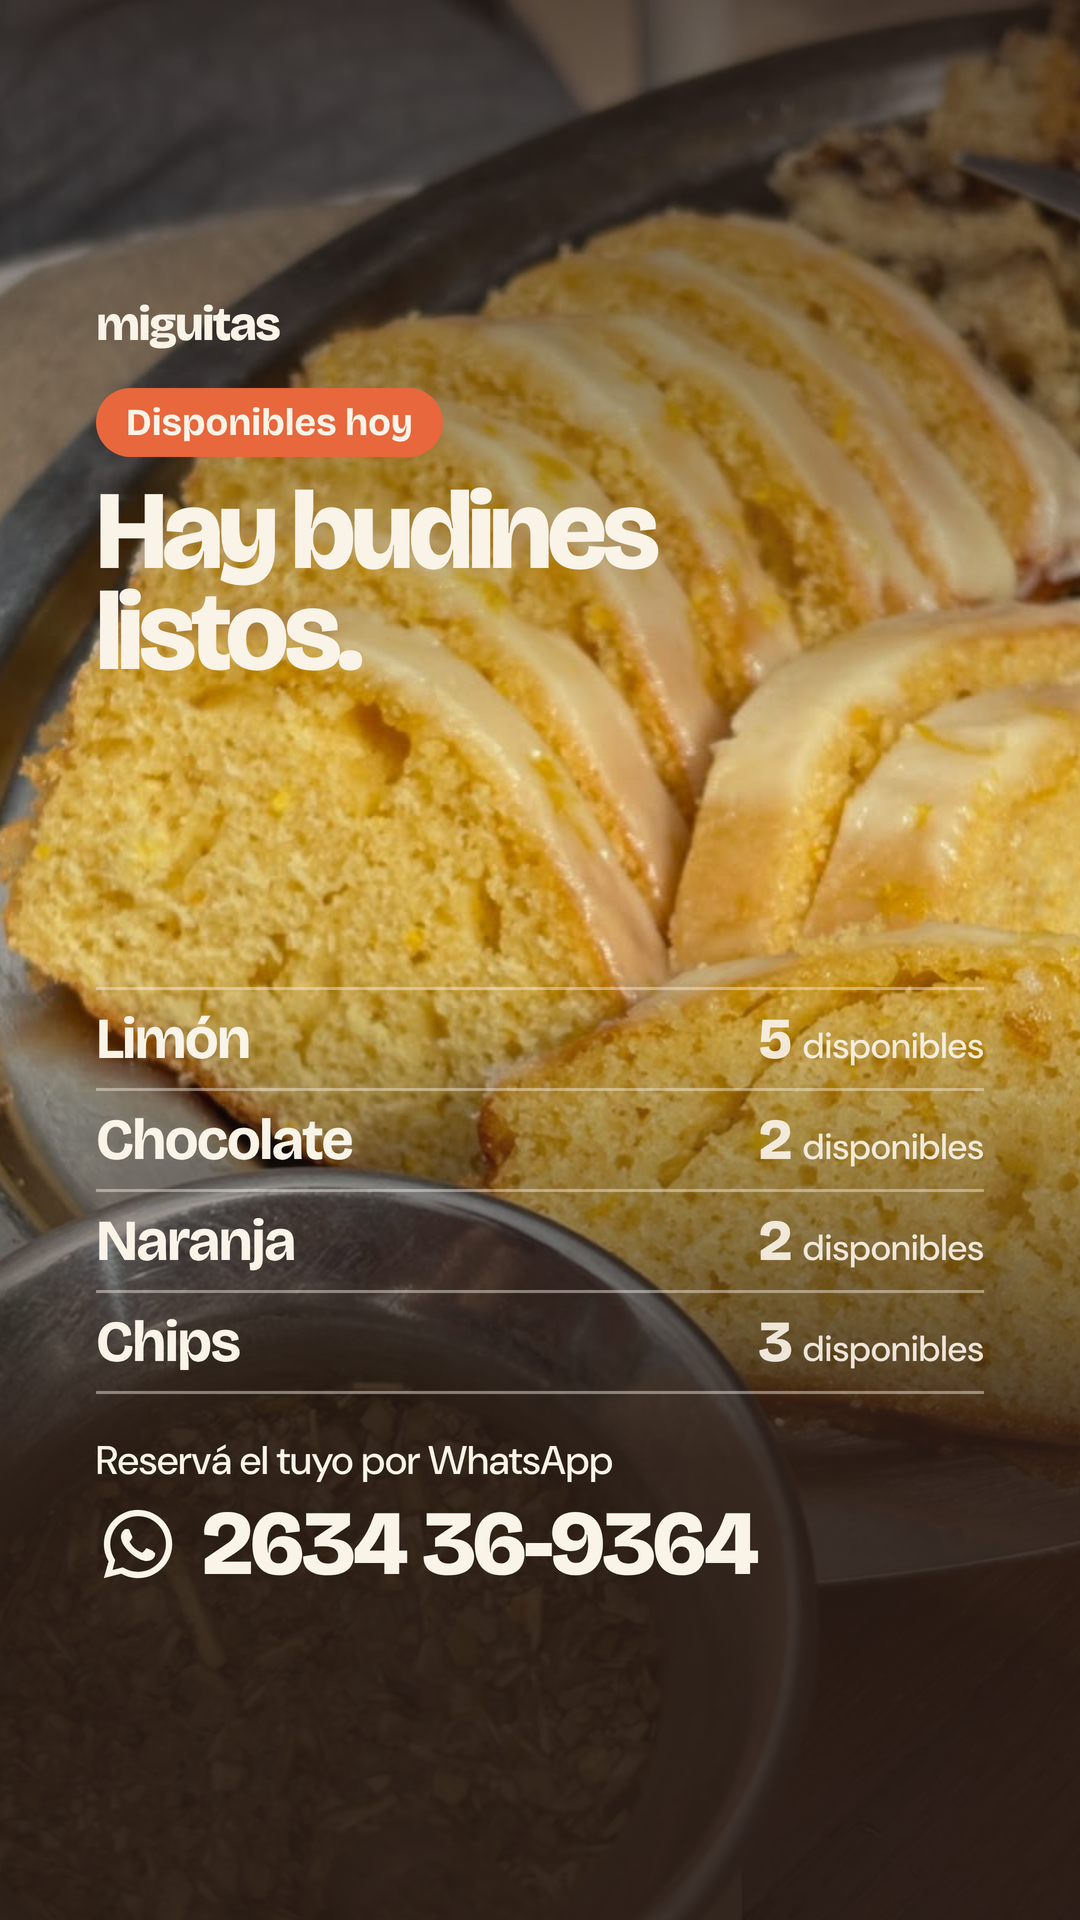
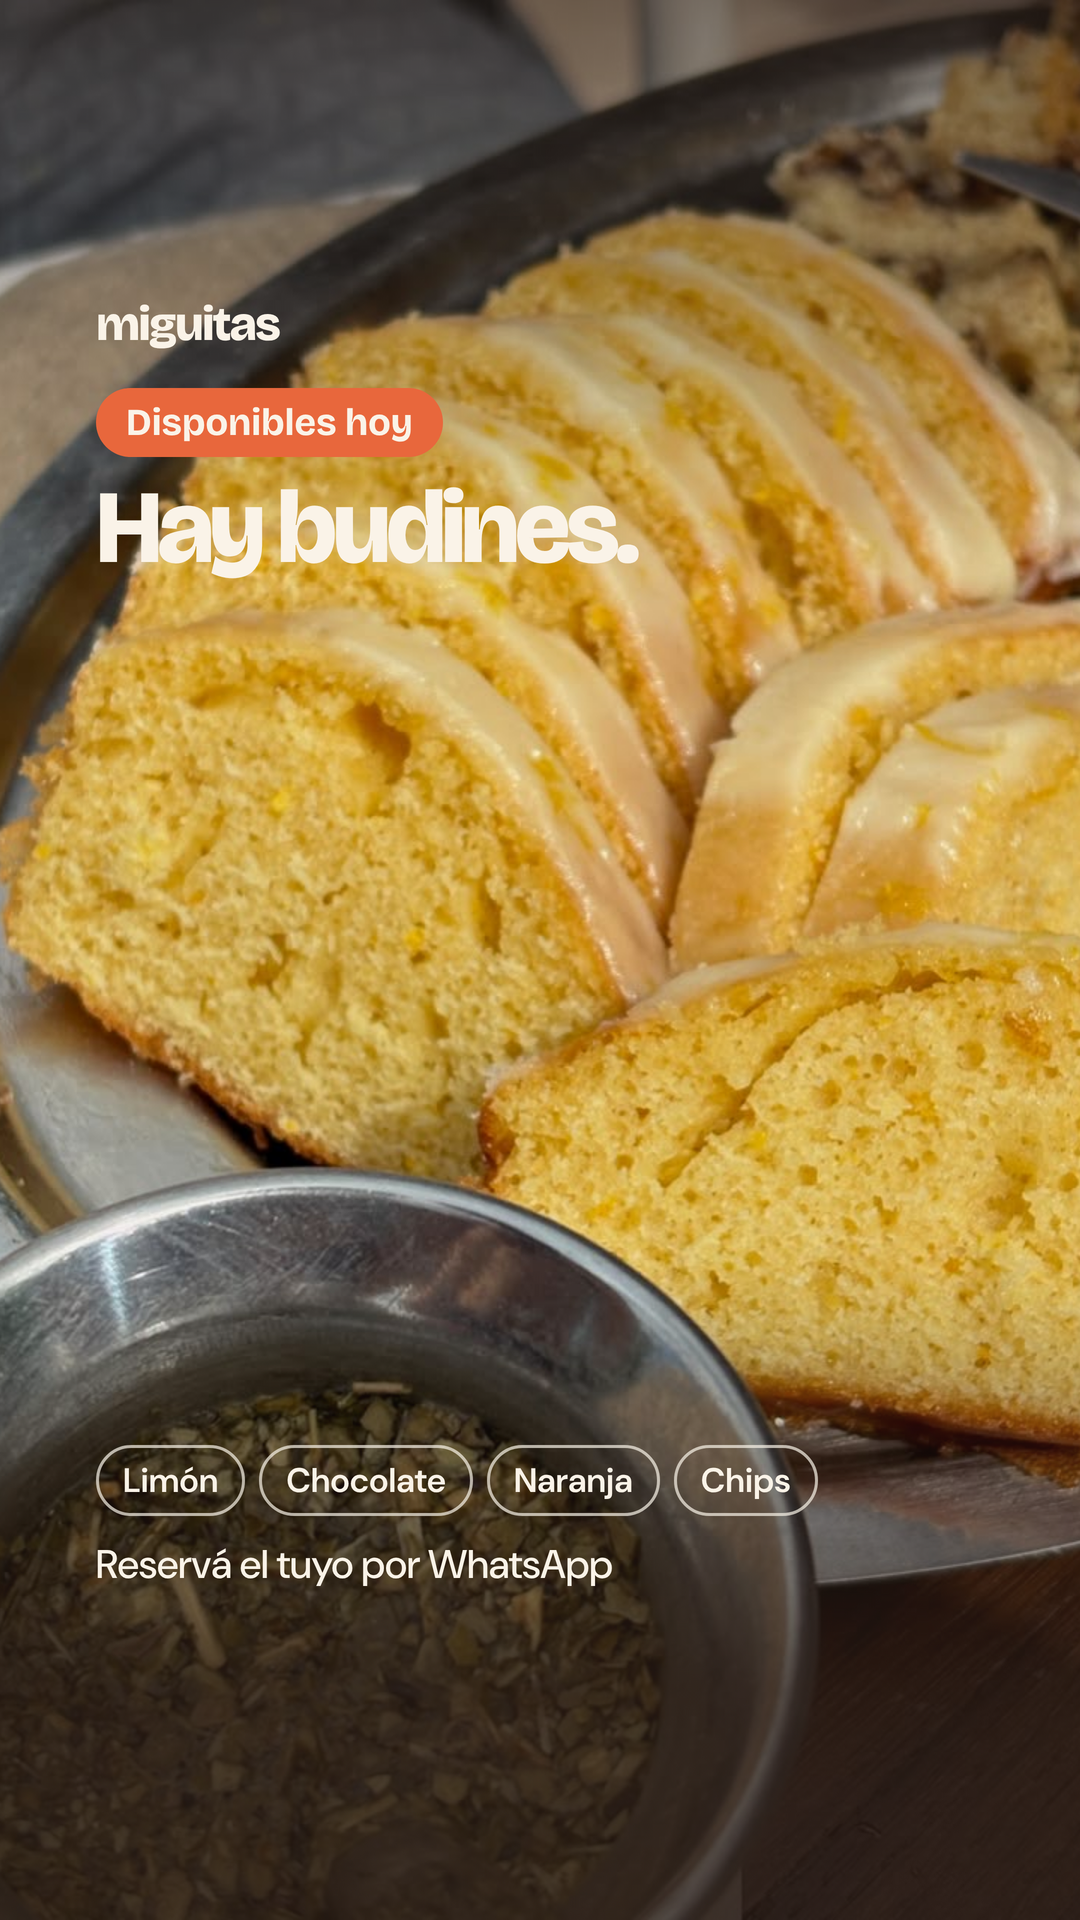
Historia disponibles: sin unidades, más foto y menos texto
Claude-Session: https://claude.ai/code/session_01AYjpDzfaiiso7FoLc99CtD

diff --git a/historias/historia-disponibles.html b/historias/historia-disponibles.html
@@ -7,12 +7,14 @@
 html,body{width:1080px;height:1920px;font-family:var(--texto)}
 .h-prod{position:relative;overflow:hidden;width:1080px;height:1920px;padding:300px 96px 330px;display:flex;flex-direction:column;color:var(--crema);
   background:url(../fotos/limon-cortado-01.jpg) 62% 50%/cover}
-.h-prod::before{content:"";position:absolute;inset:0;background:linear-gradient(180deg,rgba(43,29,22,.72) 0%,rgba(43,29,22,.3) 25%,rgba(43,29,22,0) 38%,rgba(43,29,22,0) 50%,rgba(43,29,22,.88) 76%)}
+.h-prod::before{content:"";position:absolute;inset:0;background:linear-gradient(180deg,rgba(43,29,22,.6) 0%,rgba(43,29,22,.15) 22%,rgba(43,29,22,0) 30%,rgba(43,29,22,0) 66%,rgba(43,29,22,.75) 88%)}
 .h-prod>*{position:relative}
 .marca{font-family:var(--display);font-weight:800;letter-spacing:-.04em;line-height:1;font-size:48px}
 .fecha{display:inline-block;align-self:flex-start;margin-top:40px;background:var(--mandarina);color:var(--crema);font-family:var(--display);font-weight:700;font-size:38px;padding:12px 30px;border-radius:999px}
-h1{margin-top:24px;font-family:var(--display);font-weight:800;font-size:112px;letter-spacing:-.045em;line-height:.9}
+h1{margin-top:24px;font-family:var(--display);font-weight:800;font-size:104px;letter-spacing:-.045em;line-height:.9}
 .abajo{margin-top:auto}
+.sabores{display:flex;flex-wrap:wrap;gap:14px;margin-bottom:22px}
+.sabores span{font-size:34px;font-weight:600;padding:10px 24px;border-radius:999px;border:3px solid rgba(250,243,232,.7)}
 ul{list-style:none;border-bottom:3px solid rgba(250,243,232,.45);margin-bottom:40px}
 li{display:flex;justify-content:space-between;align-items:baseline;padding:20px 0;border-top:3px solid rgba(250,243,232,.45);font-family:var(--display);font-weight:700;font-size:58px;letter-spacing:-.03em;line-height:1}
 li span{font-family:var(--texto);font-weight:500;font-size:36px;letter-spacing:0;opacity:.92}
@@ -24,16 +26,10 @@ p{font-size:40px;font-weight:500}
 <div class="h-prod">
   <div class="marca">miguitas</div>
   <span class="fecha">Disponibles hoy</span>
-  <h1>Hay budines<br>listos.</h1>
+  <h1>Hay budines.</h1>
   <div class="abajo">
-    <ul>
-      <li>Limón<span><b>5</b>disponibles</span></li>
-      <li>Chocolate<span><b>2</b>disponibles</span></li>
-      <li>Naranja<span><b>2</b>disponibles</span></li>
-      <li>Chips<span><b>3</b>disponibles</span></li>
-    </ul>
+    <div class="sabores"><span>Limón</span><span>Chocolate</span><span>Naranja</span><span>Chips</span></div>
     <p>Reservá el tuyo por WhatsApp</p>
-    <div class="tel"><svg viewBox="0 0 32 32"><path fill="currentColor" d="M16 3a13 13 0 0 0-11.2 19.6L3 29l6.6-1.7A13 13 0 1 0 16 3zm0 23.6a10.6 10.6 0 0 1-5.4-1.5l-.4-.2-3.9 1 1-3.8-.2-.4A10.6 10.6 0 1 1 16 26.6zm5.8-7.9c-.3-.2-1.9-.9-2.2-1s-.5-.2-.7.2-.8 1-1 1.2-.4.2-.7.1a8.7 8.7 0 0 1-4.3-3.8c-.3-.6.3-.5.9-1.7.1-.2 0-.4 0-.5l-1-2.4c-.3-.6-.5-.5-.7-.5h-.6a1.2 1.2 0 0 0-.9.4 3.6 3.6 0 0 0-1.1 2.7 6.3 6.3 0 0 0 1.3 3.3 14.4 14.4 0 0 0 5.5 4.9c2 .9 2.8 1 3.9.8a3.3 3.3 0 0 0 2.1-1.5 2.7 2.7 0 0 0 .2-1.5c-.1-.1-.3-.2-.6-.3z"/></svg>2634 36-9364</div>
   </div>
 </div>
 </body></html>
